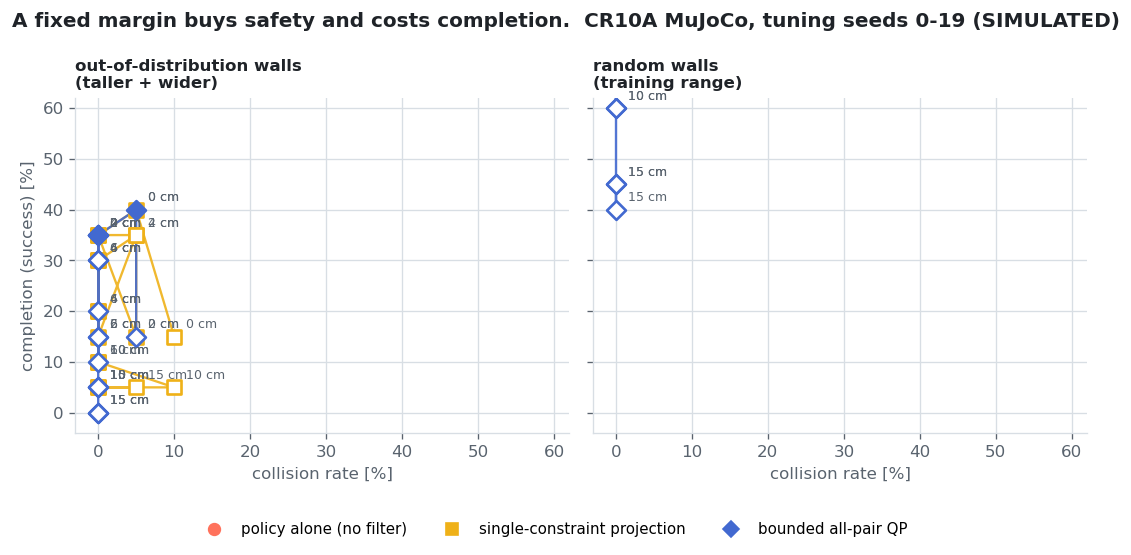
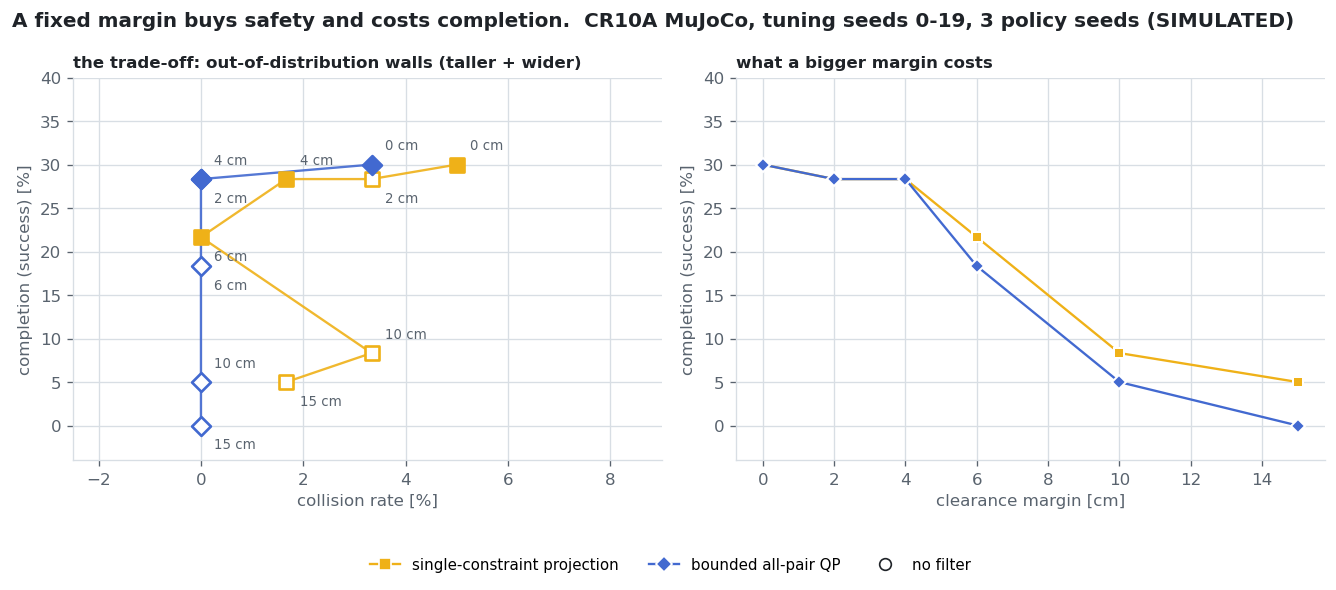
M5: frontier figure polish (label placement, axis range)

diff --git a/evaluation/plot_frontier.py b/evaluation/plot_frontier.py
@@ -134,12 +134,13 @@ def main(argv=None) -> int:
         ry = [r["success_rate"] * 100 for r in raw[task]]
         ax1.scatter(rx, ry, marker="o", s=64, facecolor="none", edgecolor=INK, linewidth=1.6, zorder=3)
         ax1.annotate("no filter", (np.mean(rx), np.mean(ry)), textcoords="offset points",
-                     xytext=(10, -4), fontsize=8.5, color=INK)
+                     xytext=(16, -20), fontsize=8.5, color=INK,
+                     bbox=dict(boxstyle="round,pad=0.15", fc="white", ec="none", alpha=0.85))
     ax1.set_xlabel("collision rate [%]")
     ax1.set_ylabel("completion (success) [%]")
     ax1.set_title("the trade-off: " + TASK_LABEL[task], loc="left", fontweight="bold", color=INK, fontsize=10)
-    ax1.set_xlim(-4, 26)
-    ax1.set_ylim(-4, 52)
+    ax1.set_xlim(-2.5, 9)
+    ax1.set_ylim(-4, 40)
 
     # ---- RIGHT: what conservatism costs --------------------------------------------------
     for key, label, color, marker in SERIES:
@@ -153,7 +154,7 @@ def main(argv=None) -> int:
     ax2.set_xlabel("clearance margin [cm]")
     ax2.set_ylabel("completion (success) [%]")
     ax2.set_title("what a bigger margin costs", loc="left", fontweight="bold", color=INK, fontsize=10)
-    ax2.set_ylim(-4, 52)
+    ax2.set_ylim(-4, 40)
 
     for ax in (ax1, ax2):
         ax.grid(color=GRID, lw=0.8)
